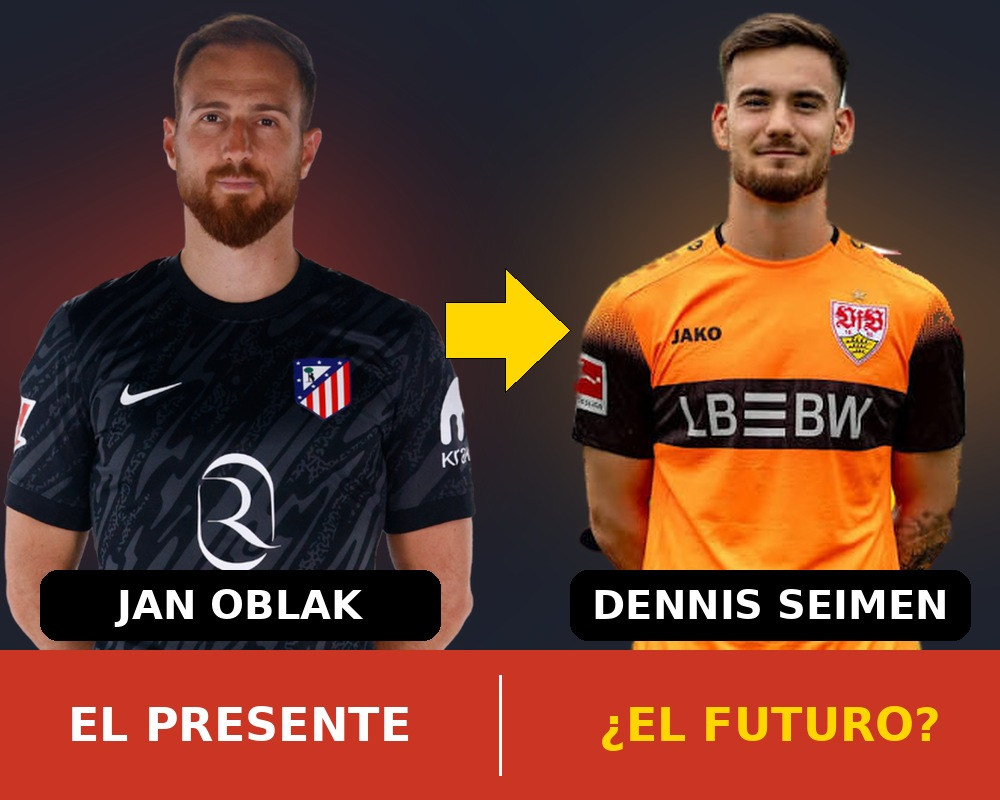
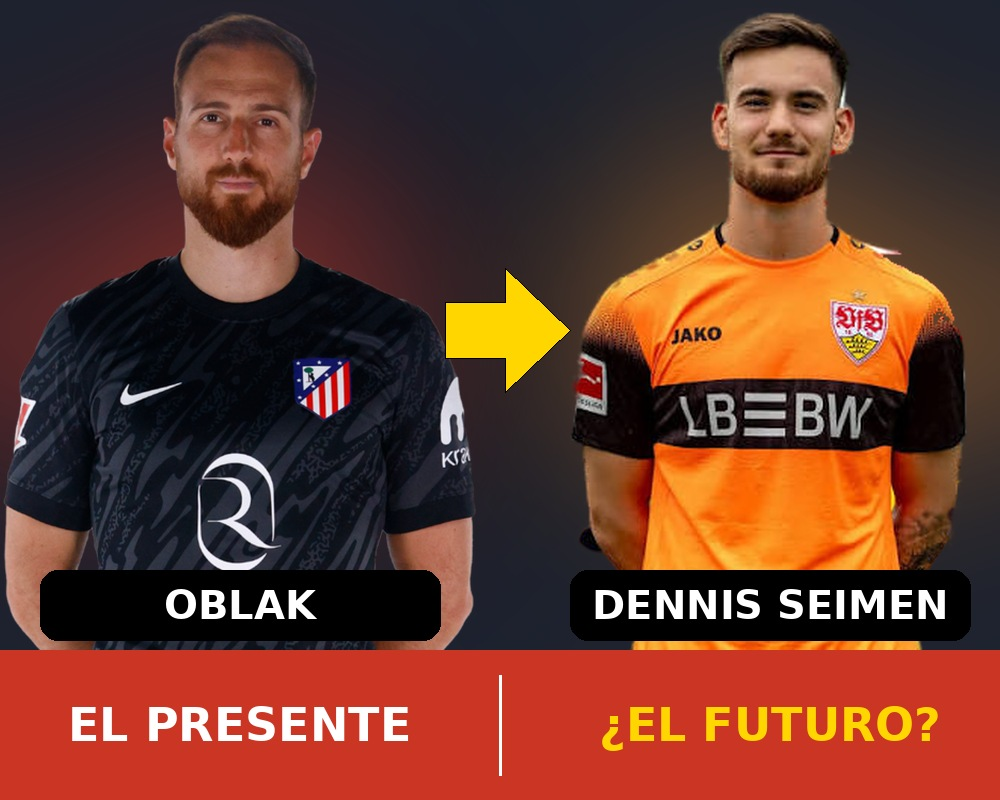
Vídeos: siempre «Oblak», nunca «Jan Oblak»
scripts/nombres.py fija cómo se nombra a cada jugador y se aplica a la voz, los
subtítulos y los rótulos de todos los generadores (Shorts, plató y automáticos).

Claude-Session: https://claude.ai/code/session_012a1WDV7vX57tvA9GzvRdCG

Changed region(s): [[0.093, 0.7188, 0.372, 0.7812]]

diff --git a/scripts/nombres.py b/scripts/nombres.py
@@ -1,0 +1,25 @@
+"""Cómo se nombra a cada jugador en los vídeos (voz, subtítulos e imágenes).
+
+Se aplica a todos los textos antes de generar cada vídeo, así que basta con añadir
+aquí una línea para cambiar un nombre en todos los vídeos futuros."""
+import re
+
+NOMBRES = {
+    "Jan Oblak": "Oblak",
+}
+
+def nombres(texto):
+    if not isinstance(texto, str):
+        return texto
+    for largo, corto in NOMBRES.items():
+        texto = re.sub(rf"\b{re.escape(largo.upper())}\b", corto.upper(), texto)
+        texto = re.sub(rf"\b{re.escape(largo)}\b", corto, texto, flags=re.IGNORECASE)
+    return texto
+
+def aplicar(obj):
+    """Aplica nombres() a todos los textos de un dict/lista (por ejemplo, el json de una noticia)."""
+    if isinstance(obj, dict):
+        return {k: (v if k in ("ruta", "tipo", "color", "brillo") else aplicar(v)) for k, v in obj.items()}
+    if isinstance(obj, list):
+        return [aplicar(x) for x in obj]
+    return nombres(obj)

diff --git a/scripts/plato/demo.py b/scripts/plato/demo.py
@@ -5,6 +5,8 @@ import numpy as np
 AQUI = os.path.dirname(os.path.abspath(__file__)); RAIZ = os.path.join(AQUI, "..", "..")
 sys.path.insert(0, AQUI)
 import plato_render as pr
+sys.path.insert(0, os.path.join(RAIZ, "scripts"))
+from nombres import nombres
 FF = os.environ.get("FF", "ffmpeg"); pr.FFMPEG = FF
 SR = 44100
 P = lambda *r: os.path.join(RAIZ, "videos", "plato", *r)
@@ -16,6 +18,7 @@ GUION = [
 ]
 
 def voz(texto, wav):
+    texto = nombres(texto)
     import edge_tts
     mp3 = wav.replace(".wav", ".mp3")
     asyncio.run(edge_tts.Communicate(texto, "es-ES-AlvaroNeural", rate="+12%", pitch="-6Hz").save(mp3))

diff --git a/scripts/videos_automaticos.py b/scripts/videos_automaticos.py
@@ -212,7 +212,8 @@ def pedir_guion(prompt, minimo=5, maximo=6, puntos=False):
             titular, frases = validar_guion(g, minimo, maximo)
             if puntos and not g.get("puntos"):
                 raise ValueError("faltan los puntos")
-            return titular, frases, g.get("puntos") or []
+            from nombres import aplicar
+            return aplicar(titular), aplicar(frases), aplicar(g.get("puntos") or [])
         except (ValueError, KeyError, json.JSONDecodeError) as e:
             ultimo = e
             print(f"  Guion no válido (intento {intento + 1}): {e}", flush=True)

diff --git a/scripts/video_noticia.py b/scripts/video_noticia.py
@@ -13,6 +13,7 @@ import sys
 import wave
 
 import imageio_ffmpeg
+from nombres import aplicar as aplicar_nombres
 import numpy as np
 from PIL import Image, ImageDraw, ImageFilter, ImageFont, ImageOps
 
@@ -454,7 +455,7 @@ def subtitulos(textos, tramos):
 
 def cargar_noticia(ruta):
     with open(ruta, encoding="utf-8") as f:
-        noticia = json.load(f)
+        noticia = aplicar_nombres(json.load(f))
     frases = []
     for frase in noticia["frases"]:
         if isinstance(frase, str):  # una frase suelta vale para voz y subtítulo

diff --git a/scripts/plato/noticia.py b/scripts/plato/noticia.py
@@ -9,7 +9,8 @@ sys.path.insert(0, AQUI)
 import demo, plato_render as pr
 
 def main(ruta_json, salida):
-    n = json.load(open(ruta_json, encoding="utf-8"))
+    sys.path.insert(0, os.path.join(RAIZ, "scripts")); from nombres import aplicar
+    n = aplicar(json.load(open(ruta_json, encoding="utf-8")))
     img = n["imagen"]["ruta"]
     img = img if os.path.isabs(img) else os.path.join(RAIZ, img)
     # La pantalla del plató es 16:9: se centra la imagen de la noticia sobre fondo oscuro

diff --git a/scripts/plato/vertical.py b/scripts/plato/vertical.py
@@ -115,7 +115,8 @@ def render(noticia, paneles, tramos, voz_wav, salida, audio_final):
     proc.stdin.close(); proc.wait()
 
 def main(ruta_json, salida):
-    n = json.load(open(ruta_json, encoding="utf-8"))
+    from nombres import aplicar
+    n = aplicar(json.load(open(ruta_json, encoding="utf-8")))
     paneles = n["plato"]["paneles"]
     for p in paneles:
         if not os.path.isabs(p["ruta"]): p["ruta"] = os.path.join(RAIZ, p["ruta"])
